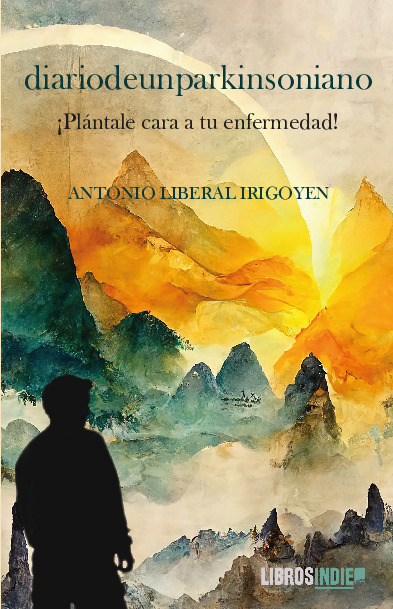
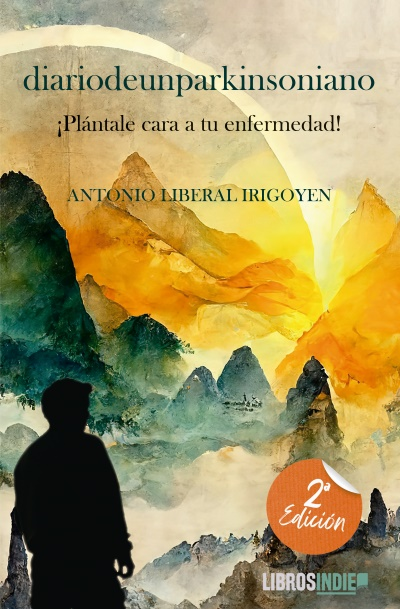
2-edicion

diff --git a/comprar.md b/comprar.md
@@ -7,7 +7,7 @@ keywords: [edición impresa,en papel, libros indie,parkinson,autoayuda]
 author: diariodeunparkinsoniano
 footerimage: '/assets/images/libro.jpg'
 ---
-**¡YA A LA VENTA!**
+**¡YA A LA VENTA LA SEGUNDA EDICION DEL LIBRO!**
 
 ¿Te gustaría tener el diario en formato impreso?
 
